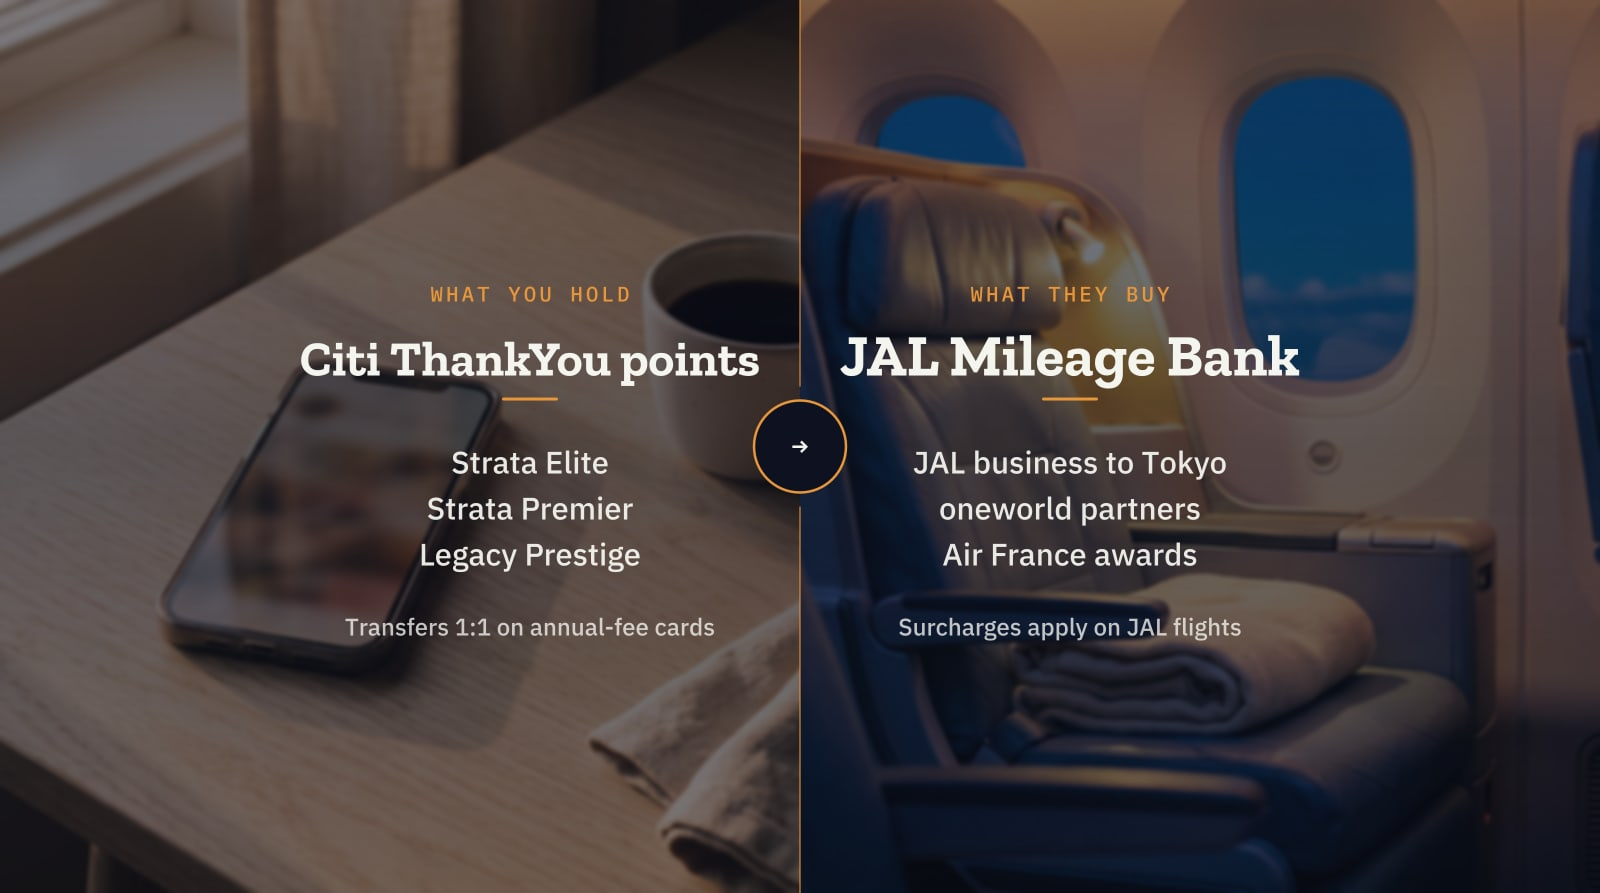
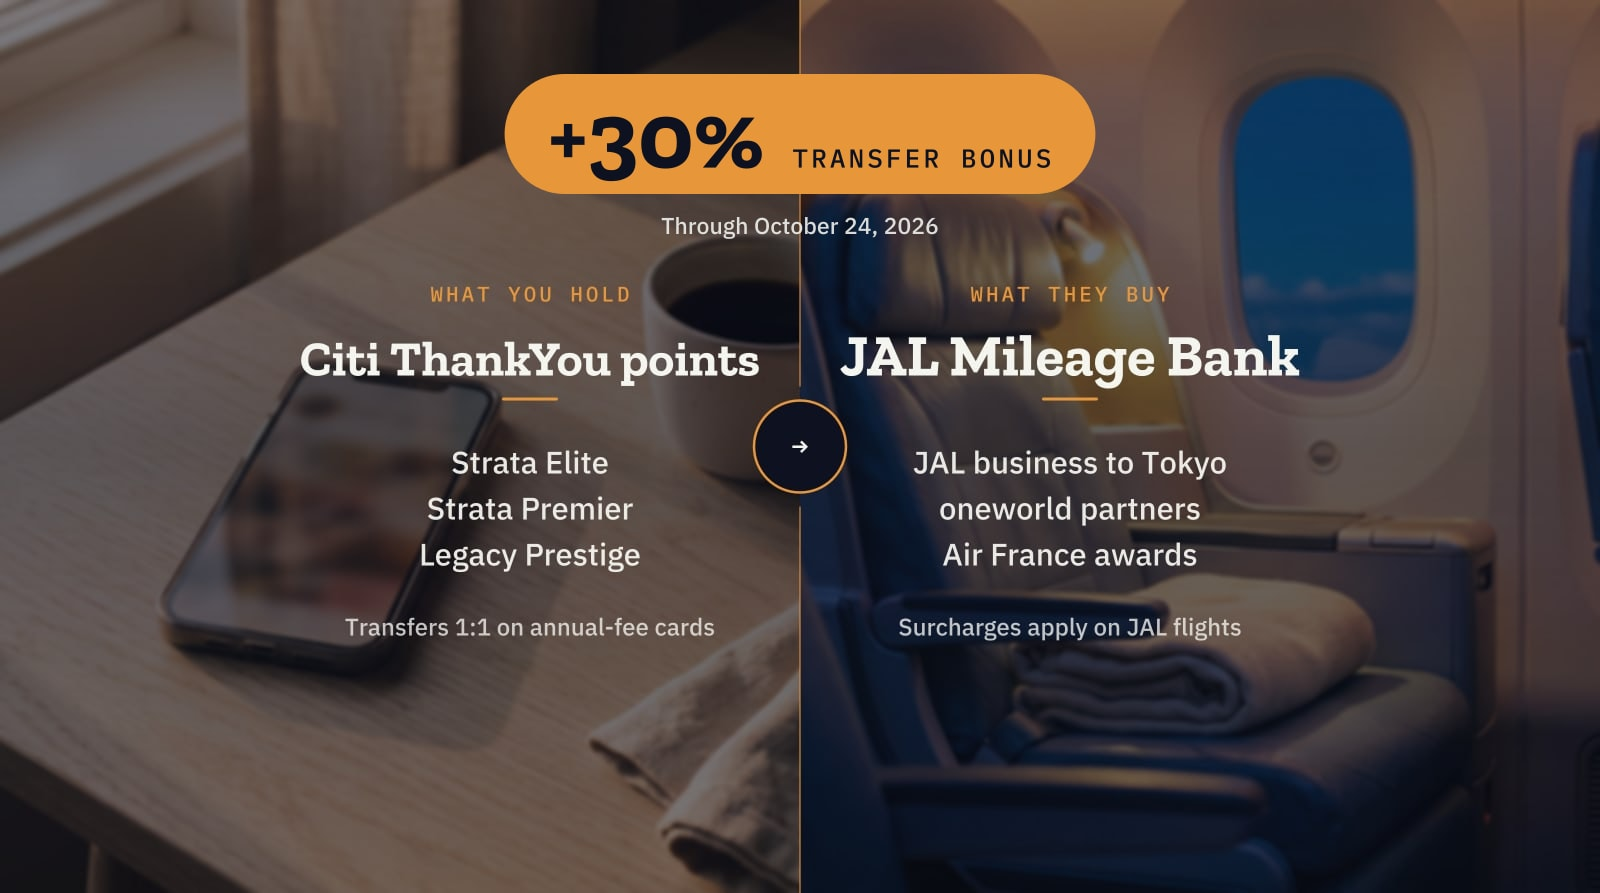
feat(blog): put the 30% bonus on the Citi/JAL cover
The bonus was deliberately kept off the cover so the image wouldn't rot
when it expires on 2026-10-24. Attention beats longevity here, so it
goes on — but structured so taking it off is a copy, not a re-shoot.

The number is stamped over a finished cover by a new
tools/stamp-cover-promo.mjs, and the banner-free composite is kept
beside it as <slug>.base.jpg. That base is the point: the source
photographs behind a composed cover are not kept in the repo, only the
composite, so without one there is no way back to an un-stamped cover.
After October 24 it is `cp <slug>.base.jpg <slug>.jpg` and a reseed.

The end date is set under the number on purpose. An undated promo claim
on an image goes stale invisibly; a dated one announces itself.

Also fixes a silent corruption in both cover scripts. opentype's
toPathData(n) rounds via the string trick +(Math.round(v + "e+" + n) +
"e-" + n), which returns NaN for any coordinate JavaScript stringifies
in exponential form. One NaN control point is enough for the rasteriser
to abandon the rest of that <path>, and the only symptom is a glyph near
the end of a line rendering as a blob: the first attempt at this banner
read "Through October 24, 202" followed by a triangle, and it took a
full-resolution crop to see it. Both scripts now serialise path commands
themselves and refuse to write an SVG containing NaN. The live
travel-portal cover was checked and is clean.

COVER_ALT now names the badge, since the image carries words a screen
[…]

Changed region(s): [[0.3125, 0.0605, 0.6875, 0.2721]]

diff --git a/docs/blog-guide/images.md b/docs/blog-guide/images.md
@@ -153,6 +153,39 @@ Rules:
 - **Gotcha:** `sharp`'s built-in text renderer silently falls back to Helvetica on macOS even with
   `fontfile` set (a fontconfig issue). That's why the script draws each glyph as a vector path with
   opentype.js.
+- **Gotcha:** opentype's `toPathData(n)` rounds by string concatenation and returns **NaN** for any
+  coordinate JavaScript stringifies in exponential form. One NaN is enough for the rasteriser to
+  abandon the rest of that `<path>`, and the only symptom is a glyph near the end of a line
+  rendering as a blob — which is how "October 24, 2026" was nearly shipped as "October 24, 202▪".
+  Both scripts now serialise path commands themselves and refuse to write an SVG containing NaN.
+  **Always zoom into the finished JPEG and read every word before shipping it.**
+
+## Promo banners (a number that expires)
+
+A discount or bonus is the one thing on a cover with an end date, so it is stamped on as a **last
+pass** by [`tools/stamp-cover-promo.mjs`](tools/stamp-cover-promo.mjs) over a finished cover that is
+kept banner-free beside it as `<slug>.base.jpg`:
+
+```bash
+node docs/blog-guide/tools/stamp-cover-promo.mjs docs/blog-guide/tools/<slug>.promo.json
+```
+
+Taking it off when the promo ends is then a copy, not a re-shoot:
+
+```bash
+cp src/scripts/assets/blog/<slug>.base.jpg src/scripts/assets/blog/<slug>.jpg
+ONLY=<slug> RESEED_COVERS=1 npm run seed:articles
+```
+
+Keeping the base matters because **the source photographs behind a composed cover are not kept in
+the repo** — only the composite is — so without one there is no way back to an un-stamped cover.
+
+Rules:
+- **Put the end date in the image, under the number.** An undated promo claim goes stale invisibly;
+  a dated one announces itself. Add a dated reminder to the blog follow-ups note as well.
+- **The number is the only oversized thing.** One filled amber pill, top-centre, inside the
+  x 290–1310 safe area so it survives the featured-card and OG crops.
+- **The alt text has to change too**, because the cover now carries words.
 
 ## 5. Alt text
 

diff --git a/docs/blog-guide/image-prompts.md b/docs/blog-guide/image-prompts.md
@@ -24,6 +24,17 @@ from memory.
 
 ---
 
+### citi-thankyou-japan-airlines-transfer-partner — promo banner (2026-09-26)
+- No generation, no credits: the "+30% TRANSFER BONUS" pill was stamped onto the finished cover with
+  `tools/stamp-cover-promo.mjs` (config `tools/citi-thankyou-japan-airlines-transfer-partner.promo.json`).
+- The banner-free composite is kept as `<slug>.base.jpg`; restoring it after the bonus ends is a copy,
+  not a re-shoot. The two source photographs behind the composite were NOT kept, which is why the base
+  now is.
+- Caught while doing it: opentype's `toPathData` emitted a NaN control point and the rasteriser
+  silently dropped the rest of the line, so the first attempt read "Through October 24, 202▪". Both
+  cover scripts now serialise path commands themselves and throw on NaN. The live
+  travel-portal-vs-transfer-partners cover was checked and is clean.
+
 ### citi-thankyou-japan-airlines-transfer-partner (2026-09-24)
 - Model: requested nano_banana_pro, reported nano_banana_2; aspect 16:9
 - Concepts tried: 4 (2 cover halves + 2 body images); rounds: 1; credits: 8. Nothing rejected: all

diff --git a/src/scripts/assets/blog/citi-thankyou-japan-airlines-transfer-partner.md b/src/scripts/assets/blog/citi-thankyou-japan-airlines-transfer-partner.md
@@ -4,7 +4,7 @@ TITLE: Citi Just Added JAL: What the 30% Bonus Is Worth
 EXCERPT: Citi ThankYou points now transfer to Japan Airlines, with a 30% bonus through October 24. The cheaper-looking path to a JAL business seat can cost you $350 more in cash.
 META_TITLE: Citi Adds JAL: What the 30% Bonus Is Worth
 META_DESCRIPTION: Citi ThankYou points now transfer to Japan Airlines with a 30% bonus. What the miles buy, what the surcharges cost, and when to use American instead.
-COVER_ALT: Split cover: a phone on a desk labeled Citi ThankYou points, beside a business class seat labeled JAL Mileage Bank
+COVER_ALT: Split cover with a +30% transfer bonus badge: Citi ThankYou points at left, a JAL Mileage Bank business seat at right
 ---BODY---
 **Citi ThankYou points now transfer to Japan Airlines Mileage Bank at 1:1 on the annual-fee Strata cards, with a 30% bonus through October 24, 2026.** The bonus is real, and on paper it puts a lie-flat seat to Tokyo within reach of about 43,000 points. The part the coverage skips: JAL charges its own carrier surcharges, so that same seat carries roughly $350 in cash per person, each way.
 
